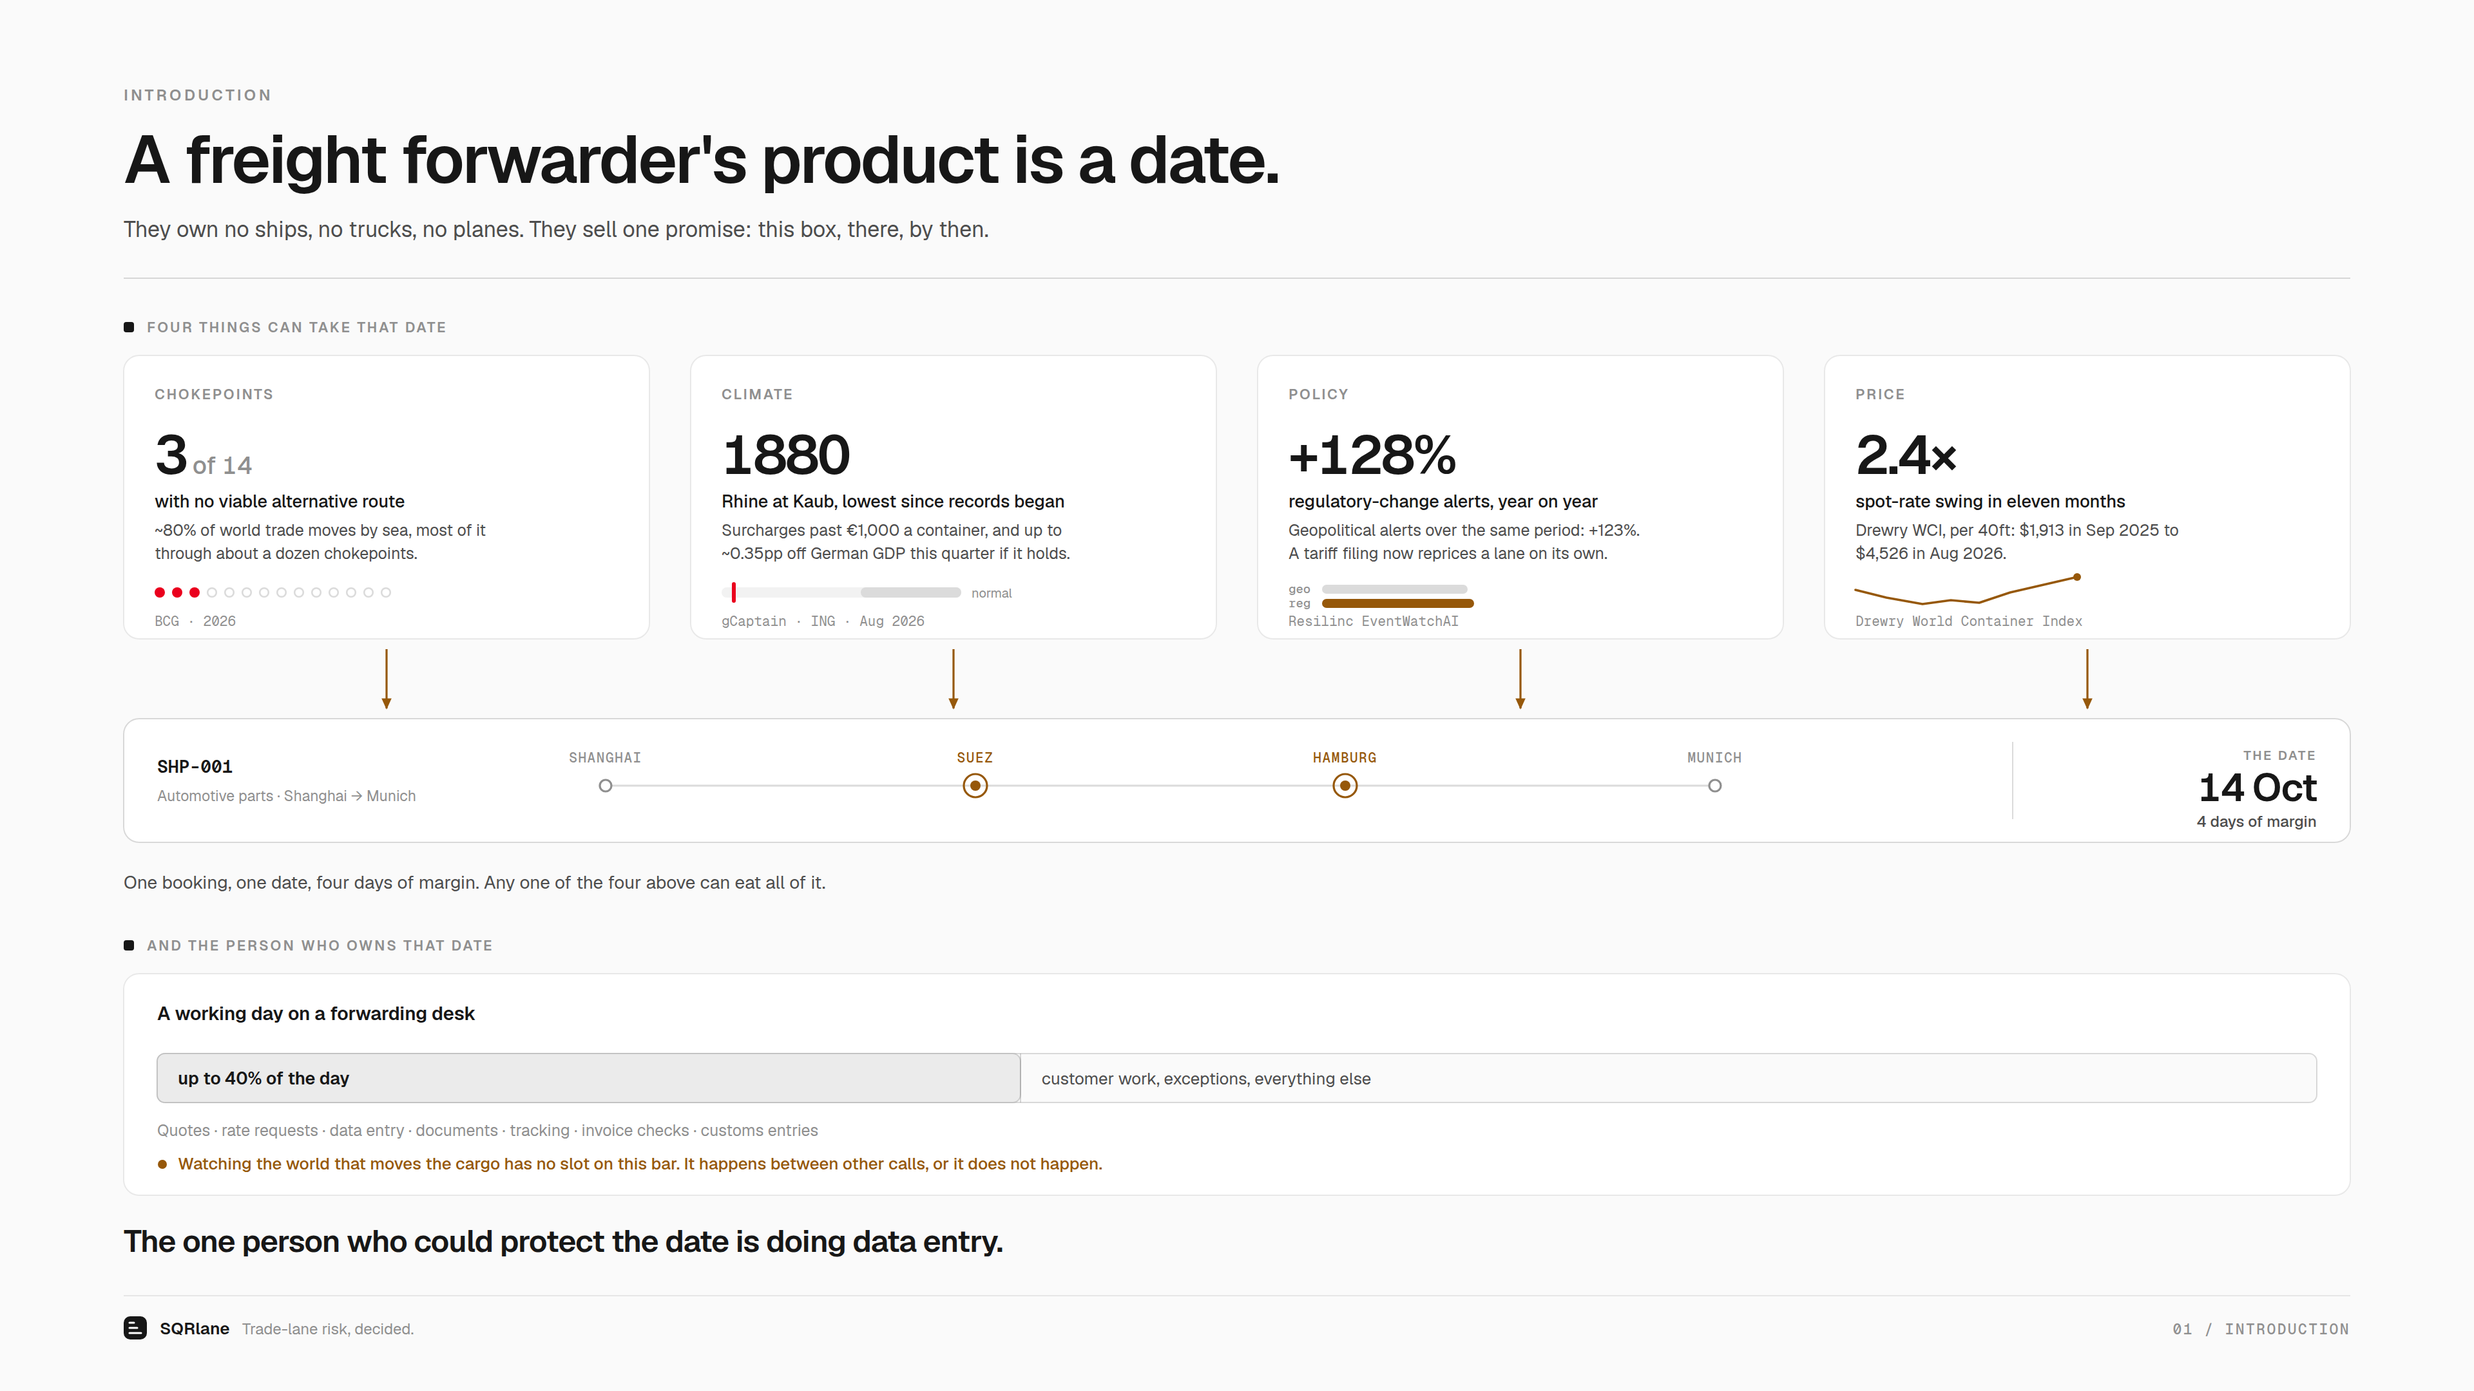
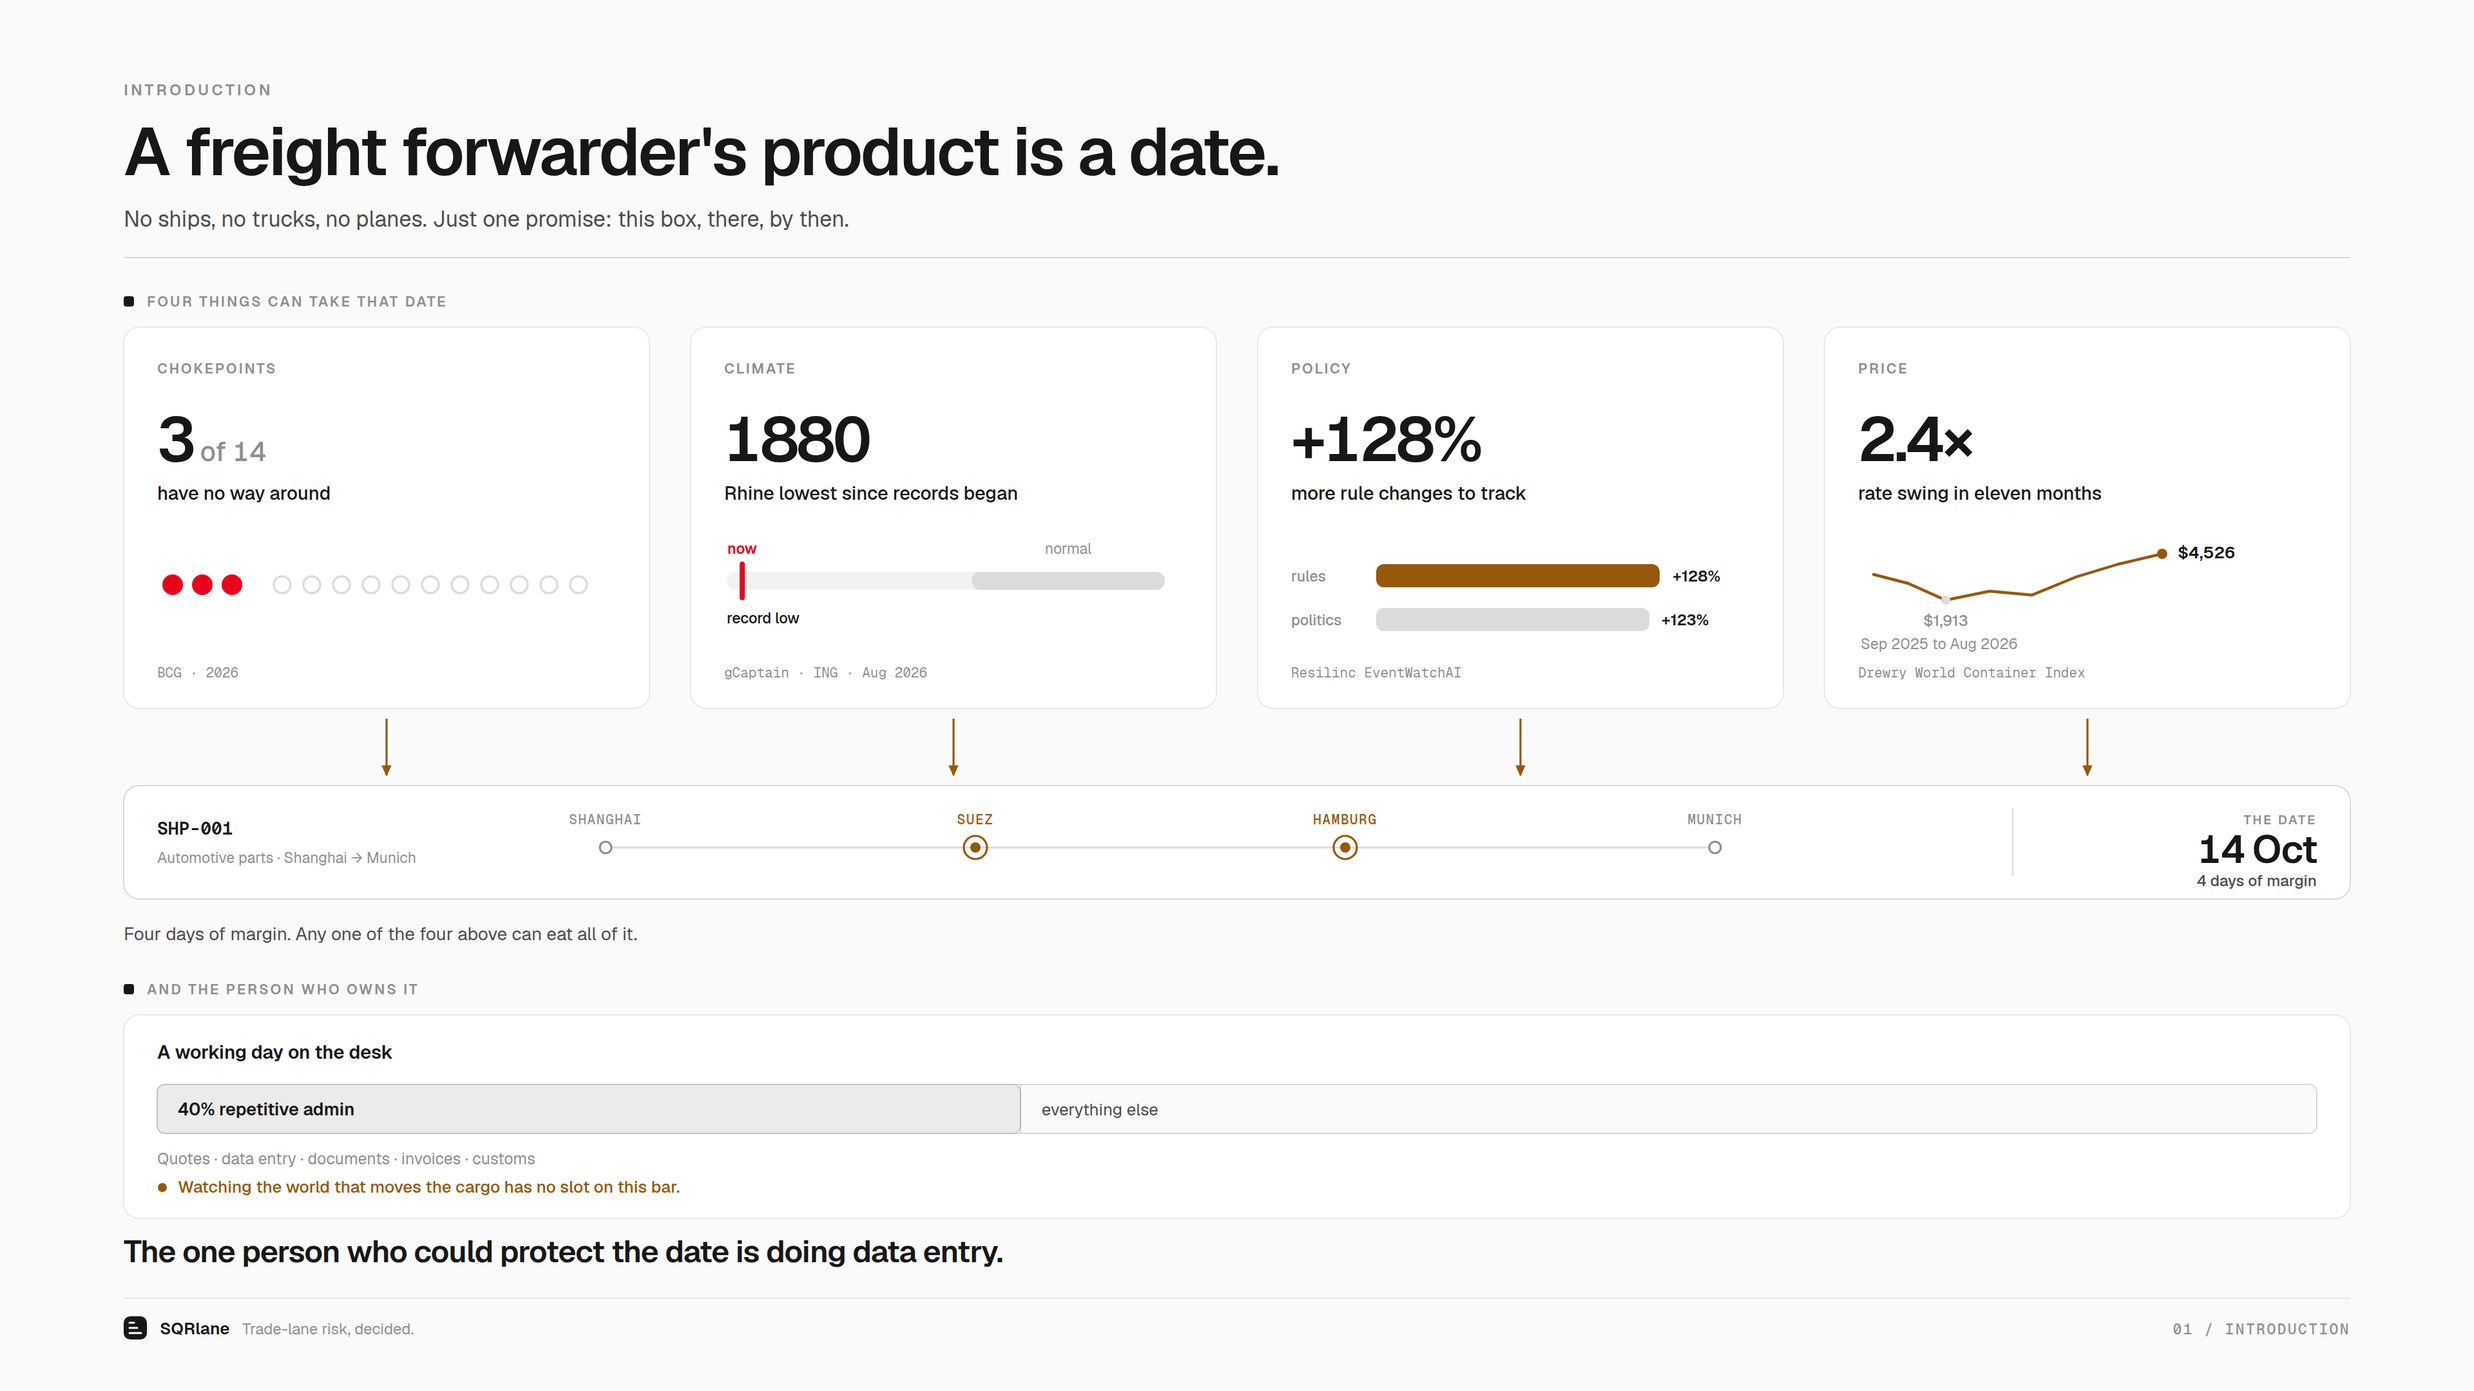
Deck: bigger force cards, detail moved out of prose and into the graphics
Each card carried a headline number, a label and two sentences of context, so
the graphic was a 16px afterthought under a paragraph. The cards are now 296px
instead of 220, the number is 48px, and each keeps exactly one plain line. The
detail that used to be prose is drawn instead: the Rhine card shows now against
normal on a depth scale, policy shows rules and politics as two bars to the same
scale, and price labels only the two endpoints of the swing.

The chokepoint dots lost their captions because they were repeating the headline
back at the reader; a gap between the three and the eleven carries the ratio on
its own.

Cut across the rest of the slide: the subline, the booking caption, the day
card's task list and the amber note are all shorter, and the page moved up to
pay for the taller cards. No figure changed, and every source line stayed.

Claude-Session: https://claude.ai/code/session_01CuQZ1wNRwUerJJo7pbi7JH

diff --git a/deck/build_slide_01.py b/deck/build_slide_01.py
@@ -73,136 +73,140 @@ def band_label(x, y, s):
 # =========================================================================
 # HEADER - the story opens here
 # =========================================================================
-txt(M, 78, "INTRODUCTION", 12, 600, FAINT, ls=2.2)
-txt(M, 142, "A freight forwarder's product is a date.", 52, 600, FG, ls=-1.4)
-txt(M, 184, "They own no ships, no trucks, no planes. They sell one promise: this box, there, by then.",
-    17, 400, MUTED)
-add(f'<line x1="{M}" y1="216" x2="{W-M}" y2="216" stroke="{BORDER_STRONG}"/>')
+txt(M, 74, "INTRODUCTION", 12, 600, FAINT, ls=2.2)
+txt(M, 136, "A freight forwarder's product is a date.", 52, 600, FG, ls=-1.4)
+txt(M, 176, "No ships, no trucks, no planes. Just one promise: this box, there, by then.", 17, 400, MUTED)
+add(f'<line x1="{M}" y1="200" x2="{W-M}" y2="200" stroke="{BORDER_STRONG}"/>')
 
 # =========================================================================
 # BEAT 1 - what can take the date
 # =========================================================================
-band_label(M, 258, "FOUR THINGS CAN TAKE THAT DATE")
+band_label(M, 238, "FOUR THINGS CAN TAKE THAT DATE")
 
-CY, CH, CWd, GAP = 276, 220, 408, 32
+CY, CH, CWd, GAP = 254, 296, 408, 32
 
-def force(i, cat, big, big_sub, unit, ctx1, ctx2, src, micro):
+def force(i, cat, big, big_sub, line, src, micro):
+    """One card: a headline number, one plain line, and a graphic that carries
+    the detail. Anything that would have been a third sentence belongs in the
+    graphic instead."""
     x = M + i * (CWd + GAP)
     card(x, CY, CWd, CH)
-    tx = x + 24
-    txt(tx, CY + 34, cat, 11, 600, FAINT, ls=1.4)
-    add(f'<text x="{tx}" y="{CY+92}" font-size="42" font-weight="600" fill="{FG}" '
-        f'letter-spacing="-1.4" class="num">{esc(big)}'
-        + (f'<tspan font-size="19" font-weight="500" fill="{FAINT}" letter-spacing="0"> {esc(big_sub)}</tspan>' if big_sub else "")
+    tx = x + 26
+    txt(tx, CY + 36, cat, 11, 600, FAINT, ls=1.4)
+    add(f'<text x="{tx}" y="{CY+104}" font-size="48" font-weight="600" fill="{FG}" '
+        f'letter-spacing="-1.8" class="num">{esc(big)}'
+        + (f'<tspan font-size="21" font-weight="500" fill="{FAINT}" letter-spacing="0"> {esc(big_sub)}</tspan>' if big_sub else "")
         + '</text>')
-    txt(tx, CY + 118, unit, 13.5, 500, FG)
-    txt(tx, CY + 140, ctx1, 12.5, 400, MUTED)
-    txt(tx, CY + 158, ctx2, 12.5, 400, MUTED)
-    micro(tx, CY + 184)
-    txt(tx, CY + 210, src, 10.5, 400, FAINT, cls="mono")
+    txt(tx, CY + 134, line, 14.5, 500, FG)
+    micro(tx, CY + 160)
+    txt(tx, CY + 272, src, 10.5, 400, FAINT, cls="mono")
 
 def m_choke(x, y):
-    for i in range(14):
-        cx = x + 4 + i * 13.5
-        if i < 3:
-            add(f'<circle cx="{cx:.1f}" cy="{y}" r="4" fill="{RED}"/>')
-        else:
-            add(f'<circle cx="{cx:.1f}" cy="{y}" r="3.4" fill="none" stroke="{GRAY400}" stroke-width="1.3"/>')
+    """14 chokepoints. The 3 with no alternative are split off by a gap, so the
+    ratio reads on its own - the headline above already names it."""
+    for i in range(3):
+        add(f'<circle cx="{x+12+i*23}" cy="{y+40}" r="8" fill="{RED}"/>')
+    for i in range(11):
+        add(f'<circle cx="{x+97+i*23}" cy="{y+40}" r="6.5" fill="none" '
+            f'stroke="{GRAY400}" stroke-width="1.7"/>')
 
 def m_water(x, y):
-    add(f'<rect x="{x}" y="{y-4}" width="186" height="8" rx="4" fill="{SURFACE}"/>')
-    add(f'<rect x="{x+108}" y="{y-4}" width="78" height="8" rx="4" fill="{GRAY400}"/>')
-    add(f'<rect x="{x+8}" y="{y-8}" width="3" height="16" rx="1.5" fill="{RED}"/>')
-    txt(x + 194, y + 4, "normal", 10, 400, FAINT)
+    """A depth scale: where the Rhine sits now against where it normally sits."""
+    add(f'<rect x="{x+2}" y="{y+30}" width="340" height="14" rx="7" fill="{SURFACE}"/>')
+    add(f'<rect x="{x+192}" y="{y+30}" width="150" height="14" rx="7" fill="{GRAY400}"/>')
+    add(f'<rect x="{x+12}" y="{y+22}" width="4" height="30" rx="2" fill="{RED}"/>')
+    txt(x + 14, y + 16, "now", 11.5, 600, RED, anchor="middle")
+    txt(x + 267, y + 16, "normal", 11.5, 400, FAINT, anchor="middle")
+    txt(x + 2, y + 70, "record low", 11.5, 500, FG)
 
 def m_bars(x, y):
-    for i, (lab, v) in enumerate((("geo", 123), ("reg", 128))):
-        by = y - 6 + i * 11
-        add(f'<rect x="{x+26}" y="{by}" width="{v*0.92:.0f}" height="7" rx="3.5" fill="{AMBER if i else GRAY400}"/>')
-        txt(x, by + 6.4, lab, 9.5, 500, FAINT, cls="mono")
+    """Two alert categories, drawn to the same scale so they compare."""
+    for i, (lab, v, hot) in enumerate((("rules", 128, True), ("politics", 123, False))):
+        by = y + 24 + i * 34
+        add(f'<rect x="{x+66}" y="{by}" width="{v*1.72:.0f}" height="18" rx="{R}" '
+            f'fill="{AMBER if hot else GRAY400}"/>')
+        txt(x, by + 13.5, lab, 11.5, 500, FAINT)
+        txt(x + 66 + v * 1.72 + 10, by + 13.5, f"+{v}%", 12, 600, FG)
 
 def m_spark(x, y):
-    pts = [(0, -2), (24, 4), (52, 9), (74, 6), (96, 8), (120, 0), (146, -6), (172, -12)]
-    d = " ".join(f"{'M' if i==0 else 'L'}{x+px},{y+py}" for i, (px, py) in enumerate(pts))
-    add(f'<path d="{d}" fill="none" stroke="{AMBER}" stroke-width="1.8" stroke-linejoin="round" stroke-linecap="round"/>')
-    add(f'<circle cx="{x+172}" cy="{y-12}" r="3" fill="{AMBER}"/>')
+    """The swing itself, with only the two endpoints labelled."""
+    x0, w, y0, h = x + 12, 224, y + 14, 40
+    pts = [(0, .45), (.12, .62), (.25, .95), (.4, .78), (.55, .84), (.7, .5), (.85, .24), (1, .04)]
+    d = " ".join(f"{'M' if i==0 else 'L'}{x0+px*w:.0f},{y0+py*h:.0f}" for i, (px, py) in enumerate(pts))
+    add(f'<path d="{d}" fill="none" stroke="{AMBER}" stroke-width="2.2" '
+        f'stroke-linejoin="round" stroke-linecap="round"/>')
+    lx, ly = x0 + .25 * w, y0 + .95 * h
+    add(f'<circle cx="{lx:.0f}" cy="{ly:.0f}" r="3.6" fill="{GRAY400}"/>')
+    txt(lx, ly + 20, "$1,913", 12, 500, FAINT, anchor="middle")
+    add(f'<circle cx="{x0+w}" cy="{y0+.04*h:.0f}" r="4" fill="{AMBER}"/>')
+    txt(x0 + w + 12, y0 + .04 * h + 4, "$4,526", 13, 600, FG)
+    txt(x + 2, y + 90, "Sep 2025 to Aug 2026", 11.5, 400, FAINT)
 
-force(0, "CHOKEPOINTS", "3", "of 14", "with no viable alternative route",
-      "~80% of world trade moves by sea, most of it",
-      "through about a dozen chokepoints.", "BCG · 2026", m_choke)
-force(1, "CLIMATE", "1880", "", "Rhine at Kaub, lowest since records began",
-      "Surcharges past €1,000 a container, and up to",
-      "~0.35pp off German GDP this quarter if it holds.", "gCaptain · ING · Aug 2026", m_water)
-force(2, "POLICY", "+128%", "", "regulatory-change alerts, year on year",
-      "Geopolitical alerts over the same period: +123%.",
-      "A tariff filing now reprices a lane on its own.", "Resilinc EventWatchAI", m_bars)
-force(3, "PRICE", "2.4×", "", "spot-rate swing in eleven months",
-      "Drewry WCI, per 40ft: $1,913 in Sep 2025 to",
-      "$4,526 in Aug 2026.", "Drewry World Container Index", m_spark)
+force(0, "CHOKEPOINTS", "3", "of 14", "have no way around", "BCG · 2026", m_choke)
+force(1, "CLIMATE", "1880", "", "Rhine lowest since records began", "gCaptain · ING · Aug 2026", m_water)
+force(2, "POLICY", "+128%", "", "more rule changes to track", "Resilinc EventWatchAI", m_bars)
+force(3, "PRICE", "2.4×", "", "rate swing in eleven months", "Drewry World Container Index", m_spark)
 
 for i in range(4):
     cx = M + i * (CWd + GAP) + CWd / 2
-    add(f'<line x1="{cx}" y1="504" x2="{cx}" y2="550" stroke="{AMBER}" stroke-width="1.6" marker-end="url(#ahA)"/>')
+    add(f'<line x1="{cx}" y1="558" x2="{cx}" y2="602" stroke="{AMBER}" stroke-width="1.6" marker-end="url(#ahA)"/>')
 
 # =========================================================================
 # BEAT 2 - the promise itself
 # =========================================================================
-LY, LH = 558, 96
+LY, LH = 610, 88
 card(M, LY, CW, LH, stroke=BORDER_STRONG)
-txt(M + 26, LY + 42, "SHP-001", 14, 600, FG, cls="mono")
-txt(M + 26, LY + 64, "Automotive parts · Shanghai → Munich", 11.5, 400, FAINT)
+txt(M + 26, LY + 38, "SHP-001", 14, 600, FG, cls="mono")
+txt(M + 26, LY + 60, "Automotive parts · Shanghai → Munich", 11.5, 400, FAINT)
 
 NODES = [("SHANGHAI", 470, False), ("SUEZ", 757, True), ("HAMBURG", 1044, True), ("MUNICH", 1331, False)]
-add(f'<line x1="470" y1="{LY+52}" x2="1331" y2="{LY+52}" stroke="{GRAY400}" stroke-width="1.4"/>')
+add(f'<line x1="470" y1="{LY+48}" x2="1331" y2="{LY+48}" stroke="{GRAY400}" stroke-width="1.4"/>')
 for name, nx, hot in NODES:
     if hot:
-        add(f'<circle cx="{nx}" cy="{LY+52}" r="9" fill="none" stroke="{AMBER}" stroke-width="1.6"/>')
-        add(f'<circle cx="{nx}" cy="{LY+52}" r="4" fill="{AMBER}"/>')
+        add(f'<circle cx="{nx}" cy="{LY+48}" r="9" fill="none" stroke="{AMBER}" stroke-width="1.6"/>')
+        add(f'<circle cx="{nx}" cy="{LY+48}" r="4" fill="{AMBER}"/>')
     else:
-        add(f'<circle cx="{nx}" cy="{LY+52}" r="4.5" fill="{CARD}" stroke="{FAINT}" stroke-width="1.6"/>')
-    txt(nx, LY + 34, name, 10.5, 500, AMBER if hot else FAINT, anchor="middle", ls=0.8, cls="mono")
+        add(f'<circle cx="{nx}" cy="{LY+48}" r="4.5" fill="{CARD}" stroke="{FAINT}" stroke-width="1.6"/>')
+    txt(nx, LY + 30, name, 10.5, 500, AMBER if hot else FAINT, anchor="middle", ls=0.8, cls="mono")
 
 # the date is the product, so it is set as the hero of this row
 add(f'<line x1="{W-M-262}" y1="{LY+18}" x2="{W-M-262}" y2="{LY+LH-18}" stroke="{BORDER_STRONG}"/>')
-txt(W - M - 26, LY + 32, "THE DATE", 10, 600, FAINT, anchor="end", ls=1.4)
-txt(W - M - 26, LY + 64, "14 Oct", 30, 600, FG, anchor="end", ls=-0.8, cls="num")
-txt(W - M - 26, LY + 84, "4 days of margin", 12, 500, MUTED, anchor="end")
+txt(W - M - 26, LY + 30, "THE DATE", 10, 600, FAINT, anchor="end", ls=1.4)
+txt(W - M - 26, LY + 60, "14 Oct", 30, 600, FG, anchor="end", ls=-0.8, cls="num")
+txt(W - M - 26, LY + 78, "4 days of margin", 12, 500, MUTED, anchor="end")
 
-txt(M, 690, "One booking, one date, four days of margin. Any one of the four above can eat all of it.",
-    14, 400, MUTED)
+txt(M, 730, "Four days of margin. Any one of the four above can eat all of it.", 14, 400, MUTED)
 
 # =========================================================================
 # BEAT 3 - and nobody is watching, because the desk is doing data entry
 # =========================================================================
-band_label(M, 738, "AND THE PERSON WHO OWNS THAT DATE")
+band_label(M, 772, "AND THE PERSON WHO OWNS IT")
 
-DY, DH = 756, 172
+DY, DH = 788, 158
 card(M, DY, CW, DH)
 bx, bw = M + 26, CW - 52
-txt(bx, DY + 36, "A working day on a forwarding desk", 14.5, 600, FG)
+txt(bx, DY + 34, "A working day on the desk", 14.5, 600, FG)
 
-BARY, BARH = DY + 62, 38
+BARY, BARH = DY + 54, 38
 admin = bw * 0.40
 add(f'<rect x="{bx}" y="{BARY}" width="{bw}" height="{BARH}" rx="{R}" fill="{CARD_MUTED}" stroke="{BORDER_STRONG}"/>')
 add(f'<rect x="{bx}" y="{BARY}" width="{admin:.0f}" height="{BARH}" rx="{R}" fill="{SURFACE_2}" stroke="{BORDER_STRONG}"/>')
 add(f'<line x1="{bx+admin:.0f}" y1="{BARY}" x2="{bx+admin:.0f}" y2="{BARY+BARH}" stroke="{BORDER_STRONG}"/>')
-txt(bx + 16, BARY + 24, "up to 40% of the day", 13.5, 600, FG)
-txt(bx + admin + 16, BARY + 24, "customer work, exceptions, everything else", 13, 400, MUTED)
+txt(bx + 16, BARY + 24, "40% repetitive admin", 13.5, 600, FG)
+txt(bx + admin + 16, BARY + 24, "everything else", 13, 400, MUTED)
 
-txt(bx, BARY + BARH + 26, "Quotes · rate requests · data entry · documents · tracking · invoice checks · customs entries",
-    12.5, 400, FAINT)
+txt(bx, BARY + BARH + 24, "Quotes · data entry · documents · invoices · customs", 12.5, 400, FAINT)
 
 add(f'<circle cx="{bx+4}" cy="{DY+DH-24}" r="3.5" fill="{AMBER}"/>')
 txt(bx + 16, DY + DH - 20,
-    "Watching the world that moves the cargo has no slot on this bar. It happens between other calls, or it does not happen.",
-    13, 500, AMBER)
+    "Watching the world that moves the cargo has no slot on this bar.", 13, 500, AMBER)
 
 # =========================================================================
 # THE TURN
 # =========================================================================
-txt(M, 972, "The one person who could protect the date is doing data entry.", 24, 600, FG, ls=-0.5)
+txt(M, 980, "The one person who could protect the date is doing data entry.", 24, 600, FG, ls=-0.5)
 
-add(f'<line x1="{M}" y1="1006" x2="{W-M}" y2="1006" stroke="{BORDER}"/>')
+add(f'<line x1="{M}" y1="1008" x2="{W-M}" y2="1008" stroke="{BORDER}"/>')
 add(f'<rect x="{M}" y="1022" width="18" height="18" rx="5" fill="{FG}"/>')
 add(f'<path d="M{M+4.5} 1035h9 M{M+4.5} 1031h6 M{M+4.5} 1027h3.5" stroke="{CARD}" '
     f'stroke-width="1.5" stroke-linecap="round"/>')
